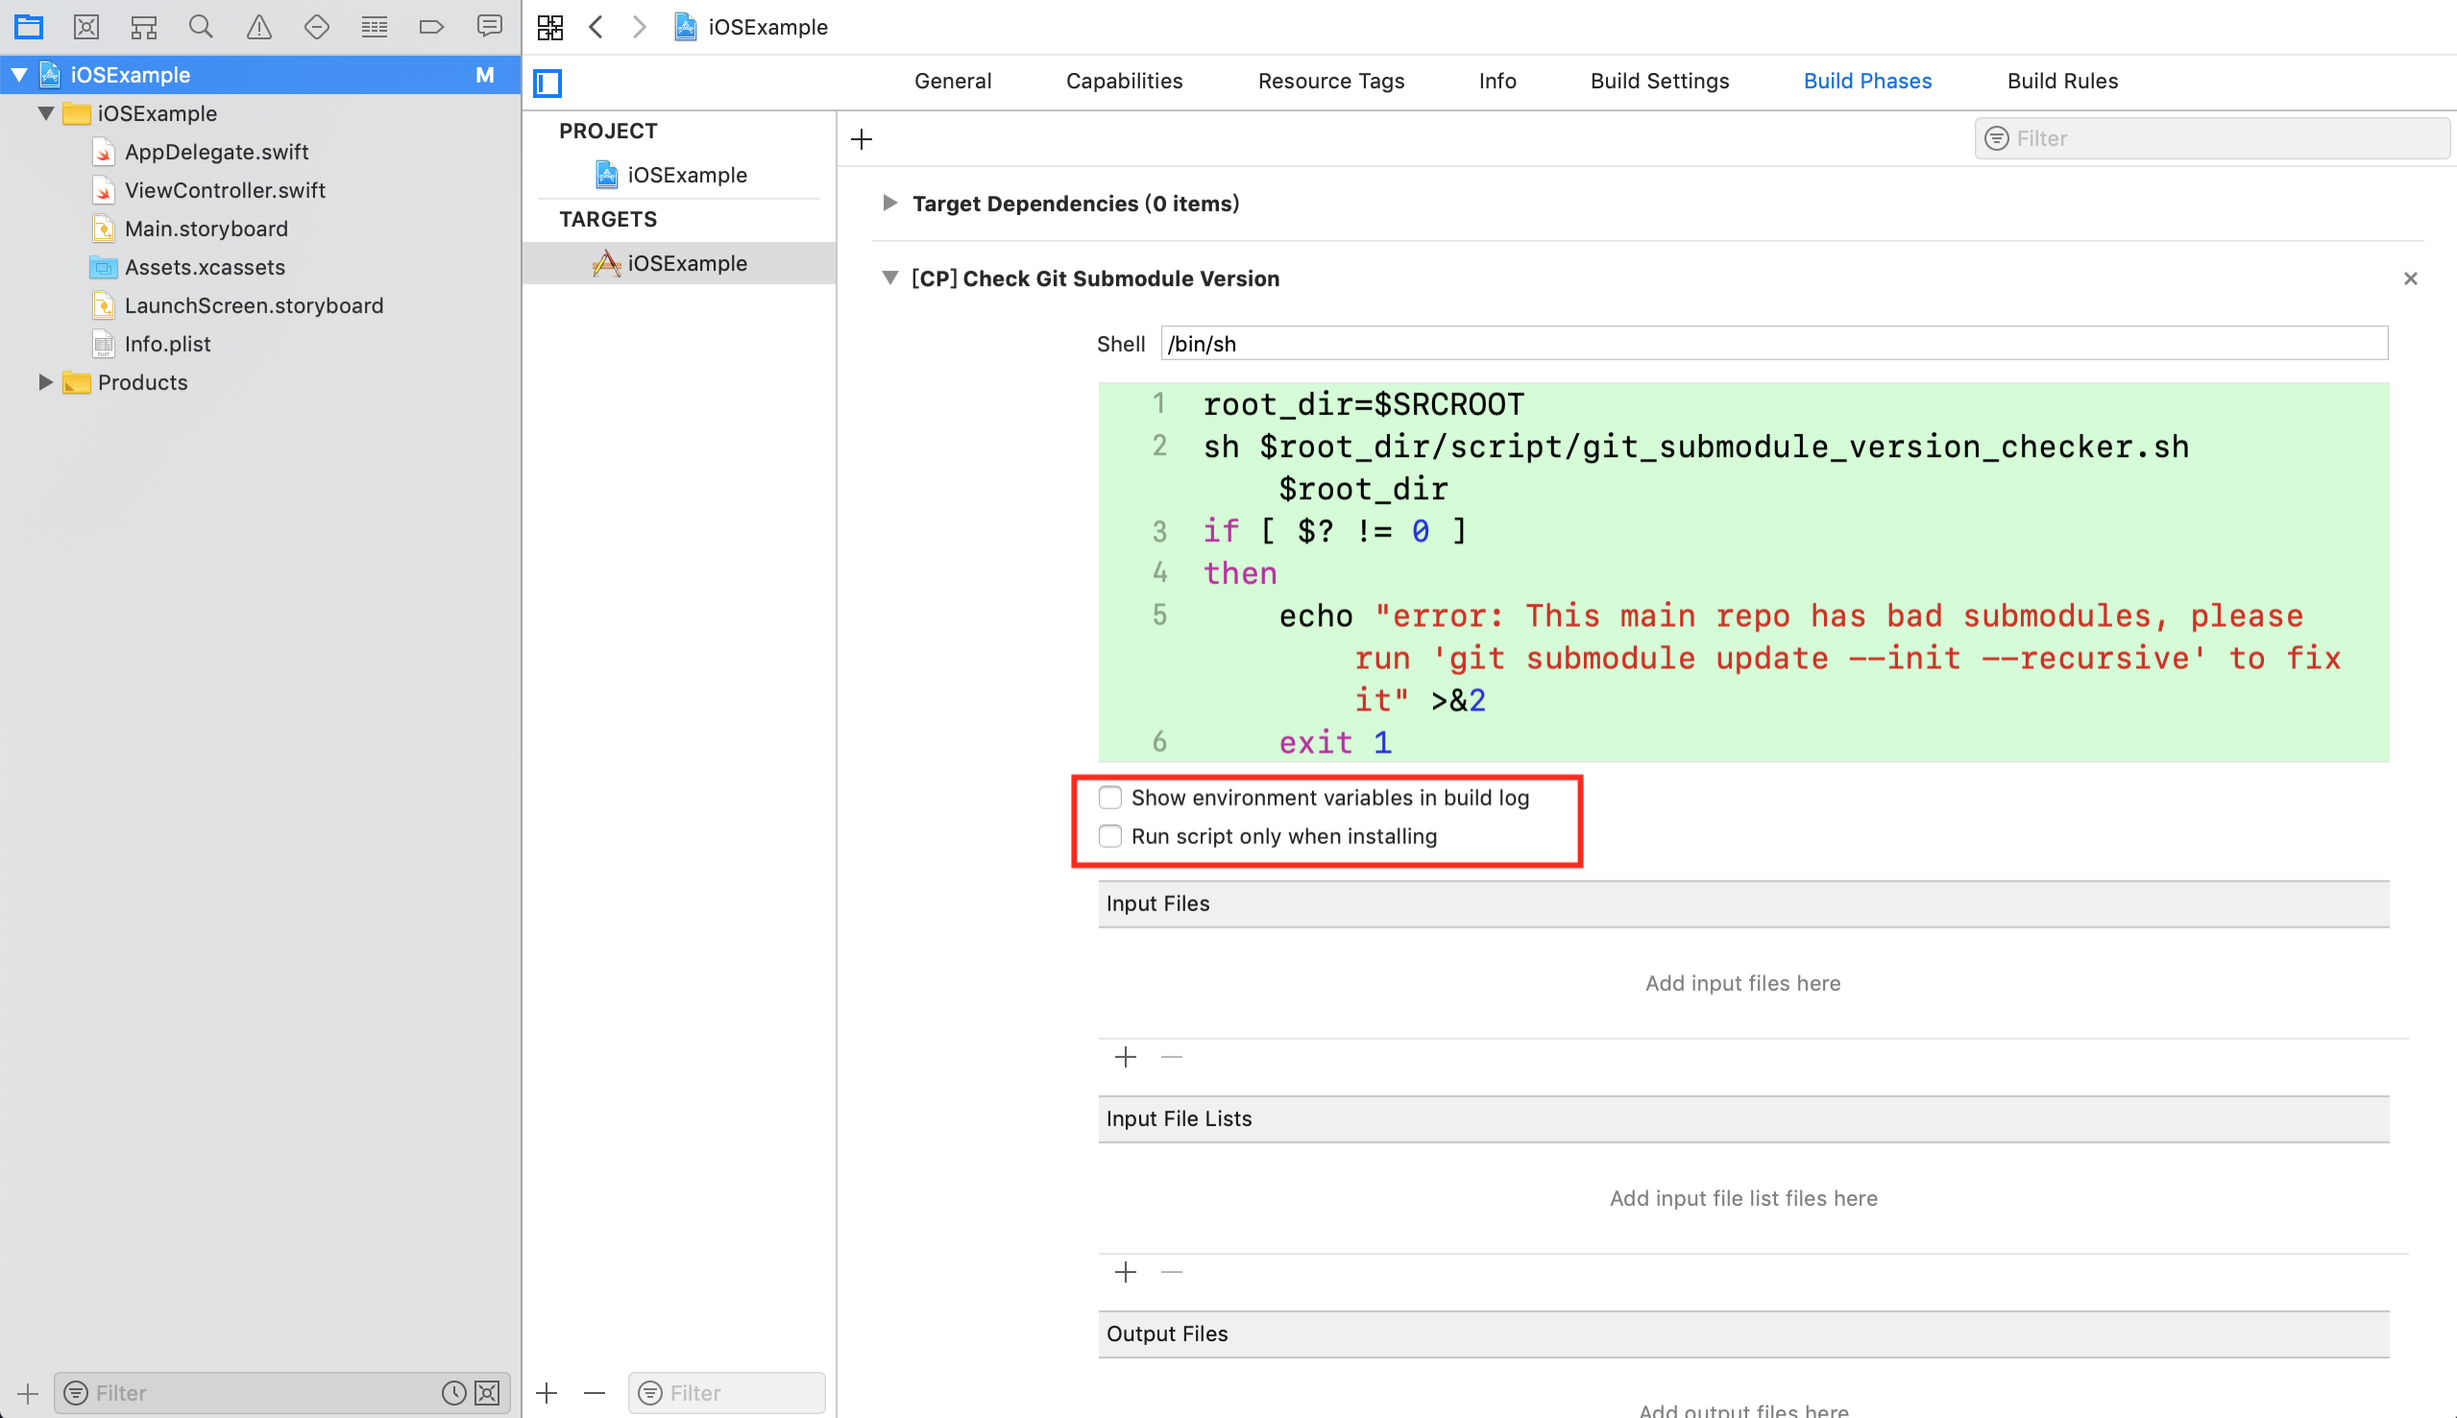
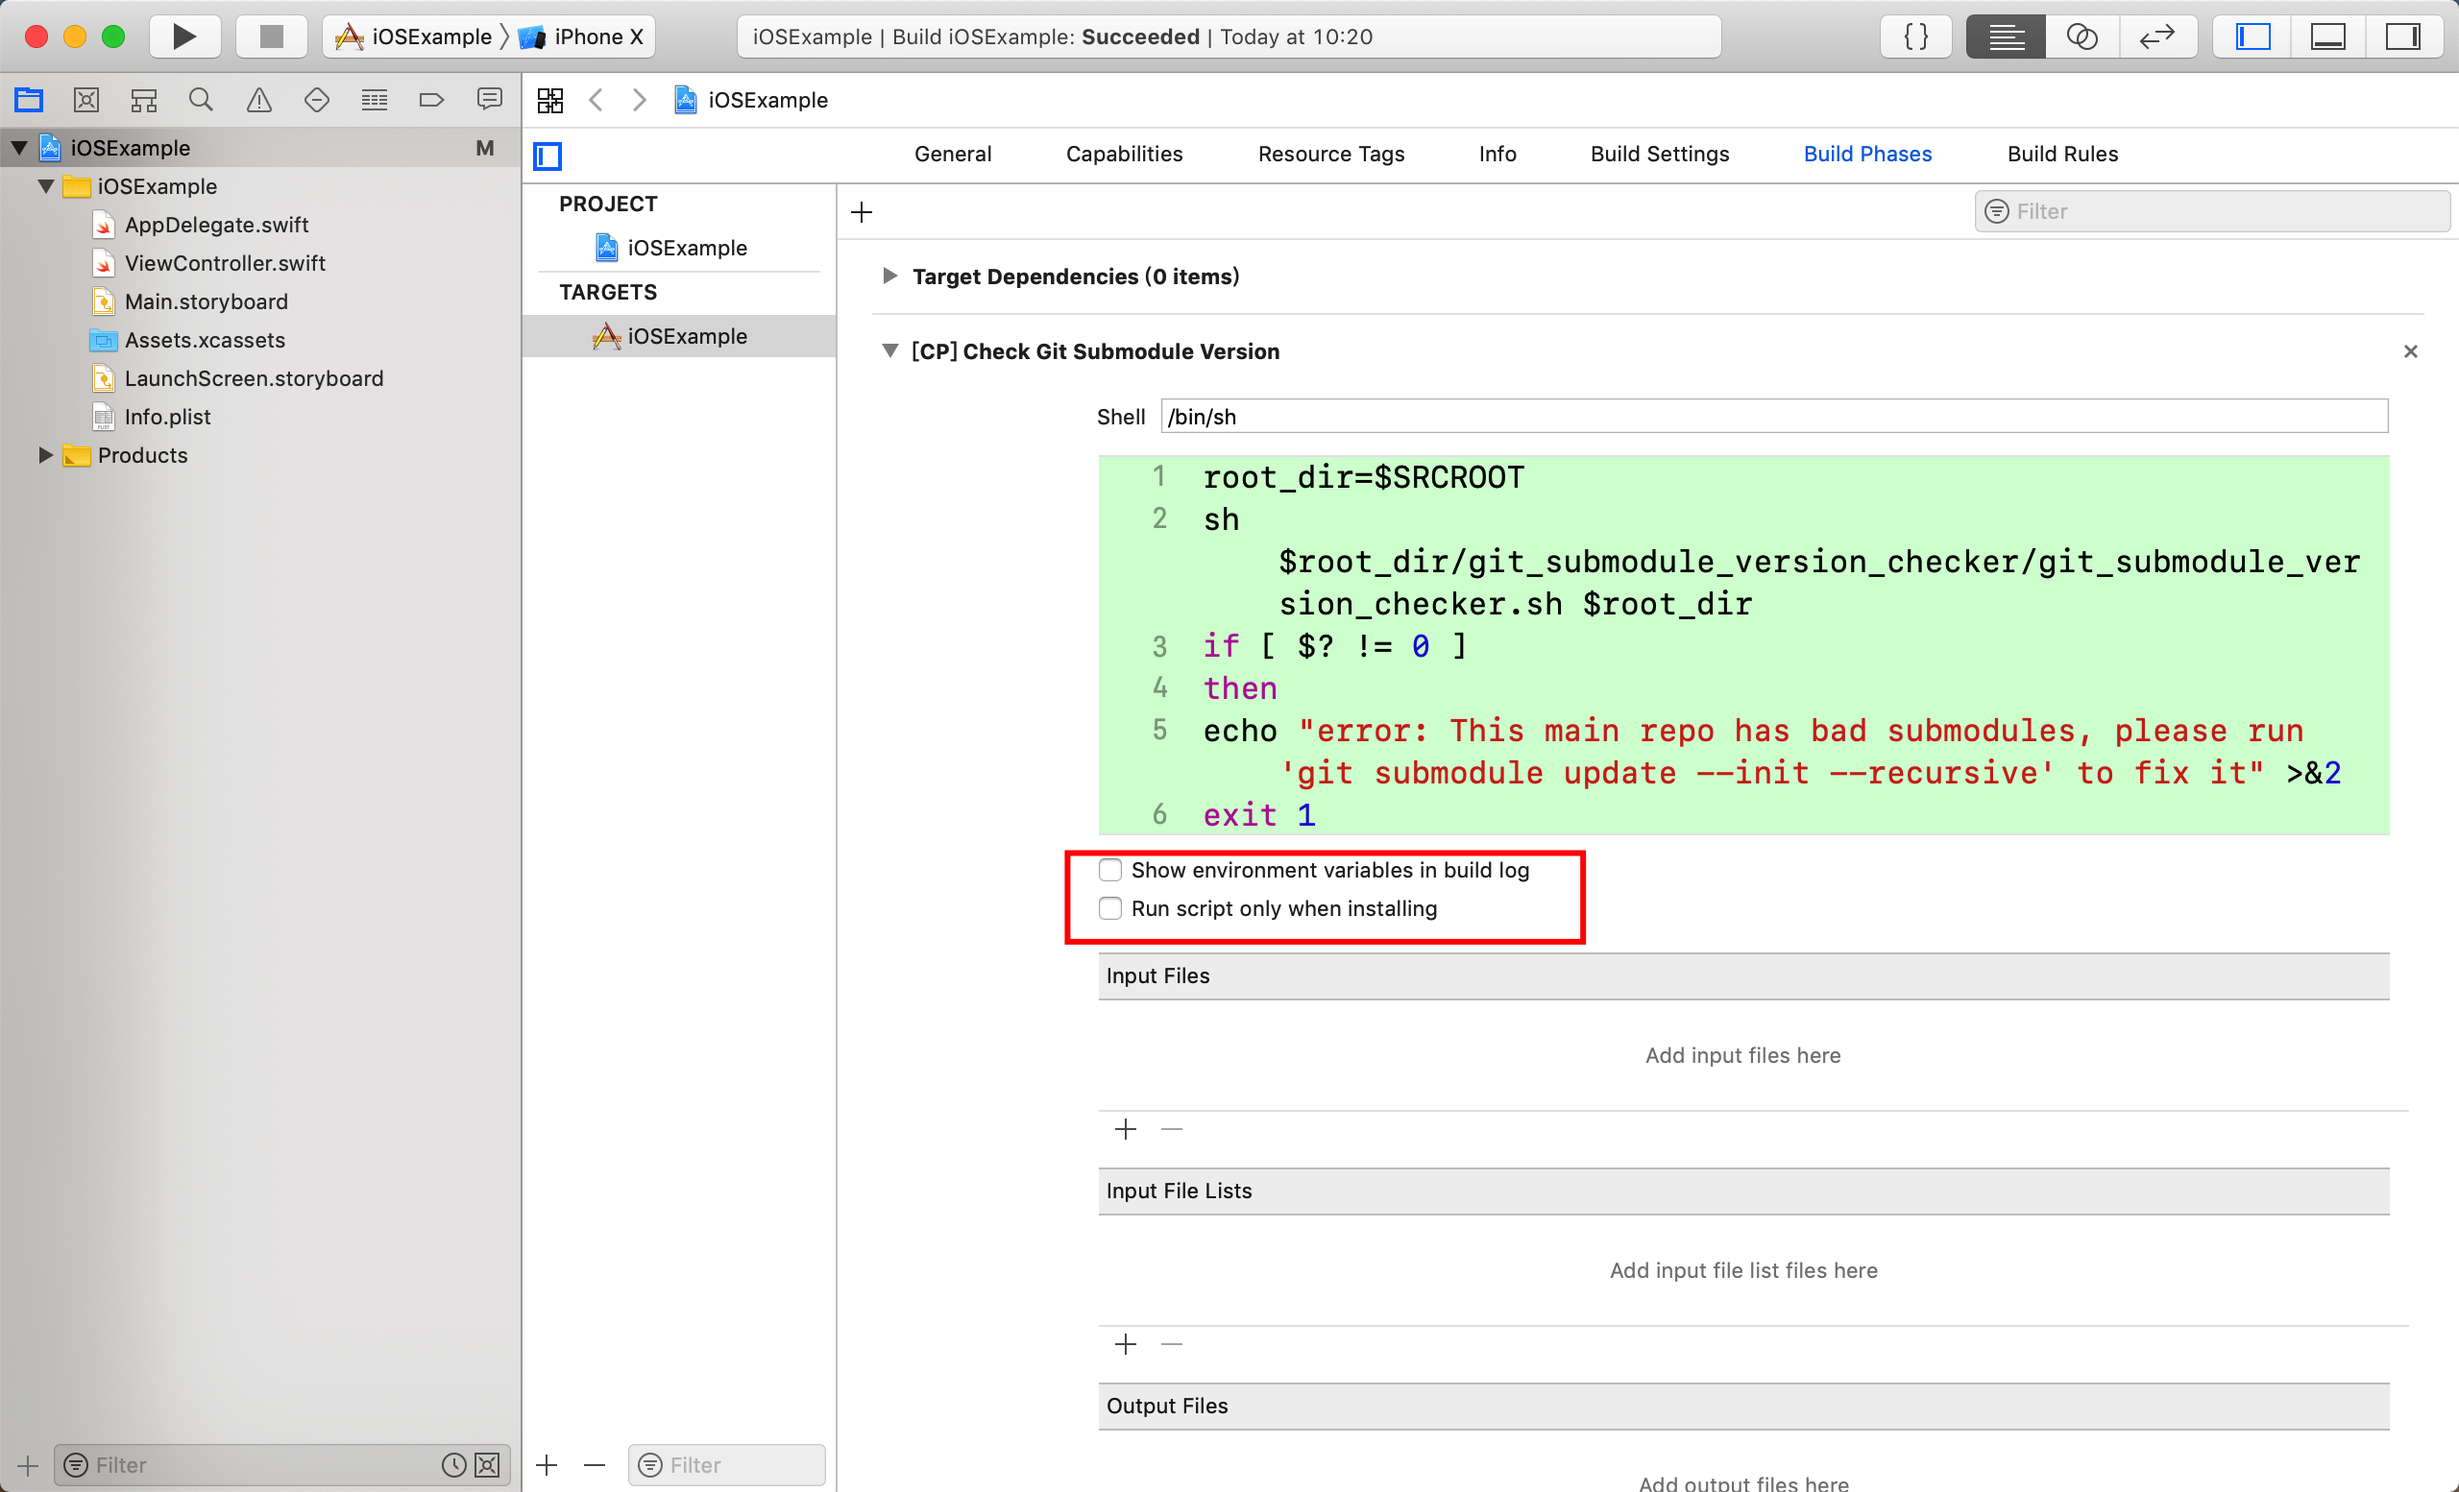
update README

diff --git a/README.md b/README.md
@@ -7,17 +7,21 @@ git_submodule_version_checker
 
 按照下述教程，接入`git_submodule_version_checker`到主工程后，每次进行编译前，都会自动对子模块的版本进行检查，若主工程依赖的子模块的版本和子模块仓库实际指向的版本不一致，则编译会以失败结束。
 
+
+
 ## iOS主工程接入`git_submodule_version_checker`
 
 接入步骤如下：
 
-1. 下载`git_submodule_version_checker.sh`，放置到主工程根目录。如图，假设放置在主工程的`script/`文件夹下：
+1. 下载[git_submodule_version_checker](https://github.com/YK-Unit/git_submodule_version_checker/archive/master.zip)，放置到主工程根目录，如图：
 
-   ![image-20190909210246809](Asserts/add_sh_file_to_ios.png)
+   ![image-20190910102152683](Asserts/add_sh_file_to_ios.png)
+
+   
 
 2. 用Xcode打开主工程的，选择`主工程Target > Build Phase > + `，如图所示新建一个名为`[CP] Check Git Submodule Version`的`Run Script Phase`：
 
-   ![image-20190908212537619](Asserts/add_run_script_phase.png)
+   ![image-20190910102445688](/Users/York/Workspace/GitHub/git_submodule_version_checker/Asserts/add_run_script_phase.png)
 
    
 
@@ -25,11 +29,11 @@ git_submodule_version_checker
 
       ``` shell
       root_dir=$SRCROOT
-      sh $root_dir/script/git_submodule_version_checker.sh $root_dir
+      sh $root_dir/git_submodule_version_checker/git_submodule_version_checker.sh $root_dir
       if [ $? != 0 ]
       then 
-          echo "error: This main repo has bad submodules, please run 'git submodule update --init --recursive' to fix it" >&2
-          exit 1
+      echo "error: This main repo has bad submodules, please run 'git submodule update --init --recursive' to fix it" >&2
+      exit 1
       fi
       echo "SUCCESS"
       
@@ -43,13 +47,15 @@ git_submodule_version_checker
 
 接入步骤如下：
 
-1. 下载`git_submodule_version_checker.sh`，放置到主工程根目录。如图，假设放置在主工程的`script/`文件夹下：
+1. 下载[git_submodule_version_checker](https://github.com/YK-Unit/git_submodule_version_checker/archive/master.zip)，放置到主工程根目录，如图：
 
-   ![image-20190909210121390](Asserts/add_sh_file_to_android.png)
+   ![image-20190910101544947](Asserts/add_sh_file_to_android.png)
+
+   
 
 2. 用Android Studio 打开主工程，选择`主工程 > app > build.gradle `，如图所示添加名为`check_git_submodule_version`的`task`，并为`preBuild`这个task设置依赖：
 
-   ![image-20190909210827232](Asserts/add_task.png)
+   ![image-20190910101749081](/Users/York/Workspace/GitHub/git_submodule_version_checker/Asserts/add_task.png)
 
    	
 
@@ -59,7 +65,7 @@ git_submodule_version_checker
    task check_git_submodule_version(type: Exec) {
        def root_dir = getRootDir()
        executable "sh"
-       args "$root_dir/script/git_submodule_version_checker.sh", "$root_dir"
+       args "$root_dir/git_submodule_version_checker/git_submodule_version_checker.sh", "$root_dir"
    
        ignoreExitValue true
    
